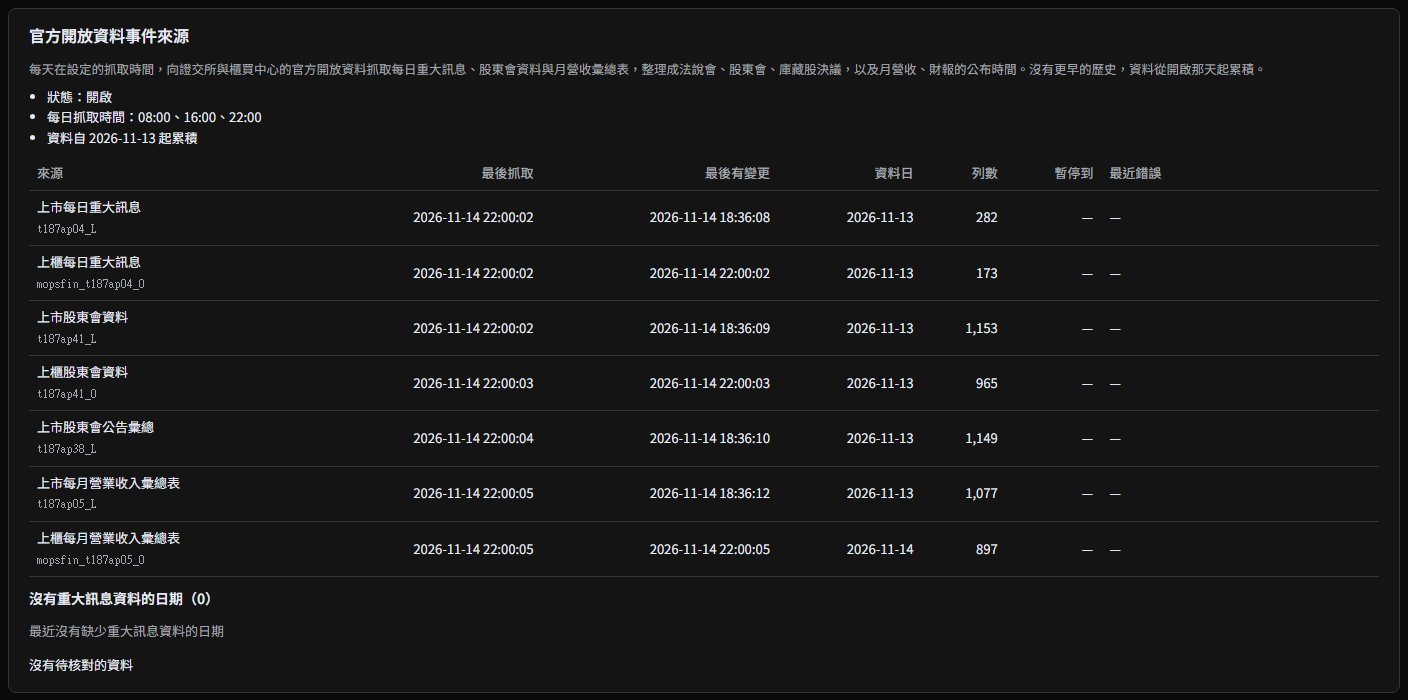
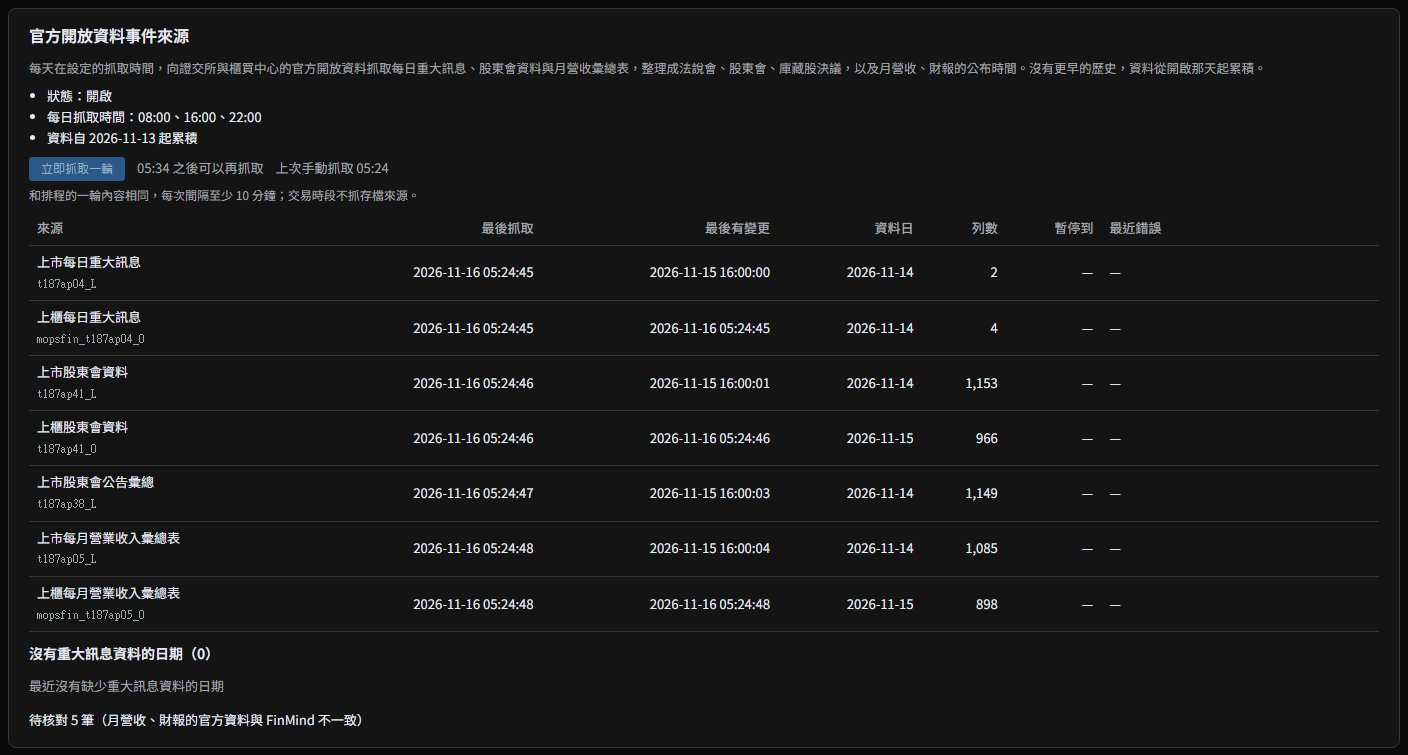
手冊同步：測試連線、立即抓取一輪、自選股欄位群組複選
- 設定：富邦行情、玉山行情的「測試連線」。
- 系統：官方開放資料事件來源的「立即抓取一輪」與新截圖。
- 自選股：表格的欄位群組可以複選（自選股的截圖之後更新）。

diff --git a/docs/settings.md b/docs/settings.md
@@ -38,8 +38,8 @@
 | 即時 | 盤中快照輪詢間隔（股票預設 10 秒、期貨 30 秒）、大單與特大單的判定方式與門檻、族群異動的偵測參數；[警示中心](alerts/README.md)的每分鐘最多提示則數（`Alerts:MaxPerMinute`，預設 10）、預設冷卻分鐘（`Alerts:DefaultCooldownMinutes`，預設 10）與觸發紀錄保存天數（`Alerts:LogKeepDays`，預設 30，1～365 日曆日；每個交易日 15:55 刪除超過天數的紀錄）。 |
 | 預估成交量 | 預估量模型的參數，以及「特殊日清單」：只需維護資料來源沒有提供的指數成分調整日（結算日、長假前後、除權息、處置、新上市會自動判定）。 |
 | 行情來源 | 即時行情要用富邦、玉山或兩者（策略）、兩家同時使用時的待命方式、故障轉移與移回的秒數、每分鐘搬移上限、平衡容忍度，以及指數由哪個來源接收；顯示實際使用的來源、不一致警告、合併容量表與最近的搬移紀錄，見下方 [行情來源](#行情來源)。 |
-| 富邦行情 | 富邦行情的開關、連線狀態、連線數與用量；連線所需的憑證可在此上傳，認證失敗時可「重新嘗試連線」（不會自動重試）。 |
-| 玉山行情 | 玉山行情的開關、方案（與有效方案、方案提醒）、自動降級、認證資料是否已設定（只顯示已設定或未設定與憑證到期日）、連線狀態、容量與用量、各用途的請求保留比例，見下方 [玉山行情方案與自動降級](#玉山行情方案與自動降級)。 |
+| 富邦行情 | 富邦行情的開關、連線狀態、連線數與用量；連線所需的憑證可在此上傳，認證失敗時可「重新嘗試連線」（不會自動重試）；「測試連線」可當場確認設定是否正確，見下方 [富邦行情的測試連線](#富邦行情的測試連線)。 |
+| 玉山行情 | 玉山行情的開關、方案（與有效方案、方案提醒）、自動降級、認證資料是否已設定（只顯示已設定或未設定與憑證到期日）、連線狀態、容量與用量、各用途的請求保留比例，見下方 [玉山行情方案與自動降級](#玉山行情方案與自動降級)；「測試連線」見 [玉山行情的測試連線](#玉山行情的測試連線)。 |
 | 盤中監控 | [盤中監控](live.md)的開關與參數，預設全部關閉。區塊開頭說明三個開關的關係：`Tape:Enabled` 是總開關（開啟時以富邦股票連線的第 2 條起接收焦點股的逐筆成交；關閉時不接收、不另開連線）；`Tape:Focus:WarrantsEnabled` 開啟焦點權證（約當金額、盤中權證力道與涵蓋率，估）；`Tape:Flow:Enabled` 只開啟現股與股期大額的分鐘與每日彙總與焦點以外股票的快照推估（估），不需要焦點權證。總開關關閉時另外兩個開關都不生效。其他項目：焦點股上限（預設 300 檔）與開盤前先接收的檔數、大額與合併門檻、釘選的標的（`Tape:Focus:PinnedStocks`）、熱門標的數（預設 60）、每個標的的焦點權證數（預設 40）與上限（預設 3,000）、活躍權證探測（預設關閉）、事件與彙總的保留天數。 |
 | 期權 | 期權模組總開關、資料保留天數、焦點合約、夜盤即時資料等參數，以及商品對照表的新增、修改、刪除。 |
 | 期現套利（成本與稅率，估） | 現股手續費率與折數、證交稅、期貨手續費、期交稅、融券與借券費用等成本設定（持股風險與可轉債套利也沿用這裡的股票成本）。 |
@@ -162,6 +162,46 @@
 - 「玉山行情方案」（`Esun:Plan`）是單選：「基本用戶（Basic）」「開發者（Developer）」「進階用戶（Advanced）」。區塊上方同時顯示「行情方案」（設定的方案）與「有效方案」（目前實際依據的上限）。
 - 玉山回應的額度明顯低於設定的方案時（例如低用量就被限流），系統判定方案不符。「玉山回應的額度低於設定的方案時，當天自動改用較低方案的額度」（`Esun:Plan:AutoDowngrade`，預設開啟）開啟時，當天改用低一級方案的額度，下一個交易日回到設定的方案再重新判定；區塊上方顯示「今天已自動降級」與「方案提醒：」說明，狀態列的「行情」也會變色並在提示中寫出同一段說明。
 - 關閉自動降級時只顯示提醒，仍依原本的上限。
+
+## 富邦行情的測試連線
+平常只有需要時（日盤有人開啟個股即時頁、期貨行情自動連線、夜盤有人開著期權頁面）才會連上富邦，所以在休息時段（週末、05:00～08:30、13:45～15:00）改完設定無法知道對不對。「富邦行情」區塊的「測試連線」（在「重新嘗試連線」旁邊）會**立刻向富邦認證一次**，成功後再查一筆台積電（2330）的日內報價，當場顯示結果。
+
+**什麼時候用**：上傳新憑證、修改連線資料、或按過「重新嘗試連線」之後，想確認設定是否正確時。
+
+**按下後的確認視窗有三點提醒**：
+1. 會立刻向富邦認證一次，並計入今日連線次數（休息時段的測試算在日盤那一格）。
+2. 認證資料有誤時會被富邦記一次失敗；測試失敗後系統不會自動連線，確認資料後要按「重新嘗試連線」。
+3. 休息時段富邦可能在維護，這時測試失敗不代表資料有誤。
+
+**不能按的時候**：按鈕旁會寫出原因——「先啟用外掛並儲存」（外掛未啟用）、「這個執行個體不執行行情連線」、「測試進行中」、「其他操作進行中」。
+
+**系統會先檢查，不符合就不送出認證**（結果為「未送出」，不計入次數）：距離上一次測試不到 60 秒、外掛未啟用、有尚未清除的認證失敗（先按「重新嘗試連線」）、連線資料不完整、這個時段剩下的連線次數不到 2 次（保留最後一次給自動連線；富邦每個時段最多 3 次）、還在稍後再試的等待時間內。目前已連線時不另外認證，只查詢一筆行情。
+
+**結果怎麼看**：按鈕下方的「最近一次測試連線」——
+
+| 項目 | 說明 |
+|---|---|
+| 測試時間 | 測試結束的時間。 |
+| 結果 | 「成功」「失敗」或「未送出」（沒有送出認證）。 |
+| 認證 | 成功時顯示耗時（毫秒）；失敗或未送出時寫出說明，下一行「原因：」是富邦或系統回報的原因（身分證字號、金鑰等內容已遮蔽）。 |
+| 行情查詢 | 認證後查一筆行情的結果：「成功」「失敗」或「略過」（沒有送出認證，或當下額度暫停）。行情查詢失敗時結果仍算成功，代表認證沒有問題。 |
+| 測試後 | 「保持連線」或「沒有保持連線」。日盤或夜盤時段、行情來源有使用富邦、當天有開盤時，測試成功後保持連線，之後照平常的規則運作，不會再多認證一次；其他時候測試完立刻中斷。 |
+
+結果為認證失敗時，下方會提示「確認連線資料後按『重新嘗試連線』。」——和一般的認證失敗相同，之後不會自動連線，直到按「重新嘗試連線」、換憑證或關閉再開啟外掛。結果是「未送出」但已記為認證失敗（例如上傳的憑證無法開啟、連線資料不完整）時也會出現這個提示。休息時段「富邦連線」的狀態顯示「休息時段」，這時下方會另外列出「認證失敗原因」，「重新嘗試連線」按鈕照樣出現。
+
+**其他提醒**：
+- 行情來源同時使用富邦與玉山時，測試其中一家只會向那一家認證，另一家不會因為這次測試跟著連線。
+- 08:30、15:00 開盤前一兩分鐘測試，測試完會先中斷，開盤後若有需要會再自動連線一次，等於這個時段多用一次連線次數。
+
+等待時按鈕旁顯示「測試進行中，等待結果…」，通常幾秒內就有結果；久等仍沒有結果時改為說明結果出來後會顯示在下方（畫面每 10 秒更新一次狀態）。結果只保存在服務的記憶體，服務重新啟動後就不再顯示。
+
+## 玉山行情的測試連線
+「玉山行情」區塊的「測試連線」（在「重新查詢」「重新嘗試連線」旁邊）和 [富邦行情的測試連線](#富邦行情的測試連線) 的做法、確認視窗的三點提醒、不能按的原因與結果的看法都相同，差別如下：
+
+- 認證照舊由玉山行情閘道執行；按下時先向閘道查一次認證資料狀態（和「重新查詢」相同，不認證），再送出一次認證。
+- 玉山每個時段的連線次數上限是 100 次，同樣在剩下不到 2 次時不測試。
+- 結果「未送出」、說明「閘道沒有把認證送到券商，不計入連線次數」：閘道的安全檢查擋下了這次認證（例如認證資料缺少某一項），原因寫在下一行，處理後再測試。
+- 玉山外掛未啟用時不連閘道，也不能測試。
 
 ## AI 助手
 ![AI 助手區塊](images/general/settings-assistant.jpg)

diff --git a/docs/watchlist.md b/docs/watchlist.md
@@ -5,7 +5,7 @@
 > 資料更新：盤中報價即時更新、走勢小圖每分鐘更新；盤後欄位群組取自每晚計算的選股特徵
 
 ## 這個功能可以做什麼
-把關心的股票分成多個群組管理。表格列出每檔的報價、當日走勢小圖、預估量與昨量比，也能切換到主力籌碼、三大法人、融資券等盤後欄位群組。自選股存在後端資料庫，重新整理或換瀏覽器都還在；左側自選欄讓你在任何頁面一鍵切換股票。
+把關心的股票分成多個群組管理。表格列出每檔的報價、當日走勢小圖、預估量與昨量比，也能同時勾選主力籌碼、三大法人、融資券等盤後欄位群組，在同一張表一起看。自選股存在後端資料庫，重新整理或換瀏覽器都還在；左側自選欄讓你在任何頁面一鍵切換股票。
 
 > 截圖中的群組名稱與股票代號、名稱已模糊處理。
 
@@ -21,7 +21,7 @@
 | 3 | 搜尋加入 | 輸入代號或名稱，選擇後加入目前群組；加入後游標留在搜尋框，可連續加入。 |
 | 4 | 批次加入 | 貼上多個代號（以空白、逗號或換行分隔，例如 `2330, 2317, 00632R`），先預覽會加入幾檔、哪些格式不正確，再按「加入」。結果會列出找不到與已在群組中的代號。 |
 | 5 | 表格／卡片 | 切換「表格」或「卡片」檢視。 |
-| 6 | 欄位群組 | 「報價」「主力籌碼」「三大法人」「當沖」「融資券」「主動 ETF」「指數權重」「鉅額與借券」「信用延伸」「可轉債」「技術延伸」「籌碼延伸」「事件」。 |
+| 6 | 欄位群組 | 「報價」「主力籌碼」「三大法人」「當沖」「融資券」「主動 ETF」「指數權重」「鉅額與借券」「信用延伸」「可轉債」「技術延伸」「籌碼延伸」「事件」，可以複選（預設只有「報價」），見下方「欄位群組（可複選）」。 |
 | 7 | 走勢小圖 | 當日分鐘走勢；虛線為平盤（參考價），最新價在平盤上為漲色、平盤下為跌色、平盤為灰。灰底為盤中重新啟動後還沒補回的時段，補回後自動變完整。 |
 | 8 | 預估量（張） | 盤中依目前累計量估算的全日成交量，標「估」；只在盤中有即時報價時顯示。 |
 | 9 | 匯入、匯出 CSV | 「匯出 CSV」依自選順序下載目前群組；「匯入」可選 CSV 檔，或直接貼上 CSV 內容或代號清單。 |
@@ -30,15 +30,21 @@
 ### 報價欄位
 「代號」「名稱」「走勢」「收盤」「漲跌」「漲跌幅」「成交量（張）」「預估量（張）」「昨量比」「產業」「資料日」，以及每列的操作（上移、下移、移到其他群組、從群組移除）。點列進個股頁。
 
-### 盤後欄位群組
-![盤後欄位群組](images/general/watchlist-chip-columns.jpg)
+### 欄位群組（可複選）
+![欄位群組](images/general/watchlist-chip-columns.jpg)
 
 | 編號 | 名稱 | 說明 |
 |---|---|---|
-| 1 | 欄位群組 | 切到「報價」以外的群組時，表格改列該群組的盤後欄位，表格上方標示「籌碼資料日」。 |
-| 2 | 主力籌碼欄位 | 「主力籌碼」群組可多選要顯示的欄位：「主力動向」「主力買賣超（張）」「籌碼集中度（%）」各有 1 日、3 日、5 日、10 日、20 日、60 日，共十八個選項，選單依這三項分組；每選一個就多一欄（依選項順序排列）；預設為三個 5 日欄位。後面固定接券商買賣家數差與主力連買、連賣天數。選擇記在這個瀏覽器；以前存過「主力天數」時，第一次開啟會換成該天數的三個欄位。 |
+| 1 | 欄位群組 | 點一下勾選、再點一下取消，可以同時選多組。選了的群組都顯示在同一張表：「代號」「名稱」固定在最左邊，後面依按鈕的順序（不是點選的先後）接「報價」與各盤後群組的欄位；表頭上方多一列群組名稱，群組之間有分隔線。至少要保留一組，只剩一組時再點它不會取消（滑鼠移上去會提示「至少保留一組欄位」）。選了盤後群組時，表格上方標示「籌碼資料日」。選擇記在這個瀏覽器；以前只選過一組時，第一次開啟會沿用那一組。 |
+| 2 | 主力籌碼欄位 | 勾了「主力籌碼」才出現。可多選要顯示的欄位：「主力動向」「主力買賣超（張）」「籌碼集中度（%）」各有 1 日、3 日、5 日、10 日、20 日、60 日，共十八個選項，選單依這三項分組；每選一個就多一欄（依選項順序排列）。預設直接顯示三項各 1 日、3 日、5 日、10 日、20 日共十五欄，60 日或其他組合可在選單自行增減。後面固定接券商買賣家數差與主力連買、連賣天數。選擇記在這個瀏覽器；以前存過「主力天數」時，第一次開啟會換成該天數的三個欄位（存的是 5 日或從沒改過時改用新的十五欄預設）。 |
+| 3 | 群組名稱 | 選了盤後群組時，表頭上方的一列標出每一段欄位屬於哪一組（截圖為「主力籌碼」加「三大法人」，沒選報價）。 |
 
-還沒有選股特徵（每晚計算）時，籌碼欄位暫無資料。卡片檢視的主力動向仍以「主力天數」切換天數。
+- 沒選「報價」時，表格只有代號、名稱與盤後欄位，不顯示走勢小圖與即時報價；每列的上移、下移、移到其他群組、移除仍在最右邊。
+- 每一欄都可以點欄名排序；換了群組後，原本依某欄排序而那一欄已不在表上時，回到自選順序。
+- 盤後欄位第一次載入時，表格上方顯示「盤後欄位載入中…」；載入失敗時顯示說明與「重試」。
+- 欄位多時表格可以左右捲動，代號與名稱固定不動；手機上群組按鈕會換行，表格同樣左右捲動（拖曳把手不固定，名稱過長時以省略號顯示），整頁不會左右晃動。
+
+還沒有選股特徵（每晚計算）時，籌碼欄位暫無資料。卡片檢視不受欄位群組影響，主力動向仍以「主力天數」切換天數。
 
 ## 左側自選欄
 ![左側自選欄的標題列](images/general/watchlist-sidebar-head.jpg)

diff --git a/docs/system.md b/docs/system.md
@@ -55,6 +55,15 @@
 - 「沒有重大訊息資料的日期」：開啟後（最多看 30 天）到昨天之間，完全沒有重大訊息資料的日期。來源主機沒開或那一天沒有抓到時會缺，之後無法補抓。
 - 待核對筆數：月營收、財報的官方資料與 FinMind 不一致的筆數（統計仍以 FinMind 為準）；沒有時寫「沒有待核對的資料」。
 
+**立即抓取一輪**：不想等到下一個抓取時間（例如剛開啟外掛、或想看今天稍早公布的重大訊息）時，按「立即抓取一輪」在背景跑一輪，內容和排程的一輪完全相同（同樣的來源、同樣的請求間隔與限流暫停），不會影響之後排程的各輪。
+
+- 按下後顯示「已開始抓取，約 1～2 分鐘後完成」，期間按鈕旁寫「抓取中」，這個區塊每 5 秒更新一次，抓完改寫「這一輪已結束，下方為最新狀態」並回到原本的更新頻率（最多 5 分鐘）。旁邊寫出「上次手動抓取 HH:mm」。
+- 每次間隔至少 10 分鐘（只看上一次手動抓取，排程剛跑完也可以按），間隔內按鈕停用並寫「HH:mm 之後可以再抓取」，時間到了按鈕自己恢復。
+- 每按一次最多只跑一輪。按下後 5 分鐘內沒有開始（例如服務剛好重新啟動）就不再跑，需要時再按一次。
+- 每天 22:05～22:30 不能按（夜間工作時段），按鈕旁寫「22:30 之後可以再抓取」；外掛關閉時按鈕停用並寫「先到設定開啟官方開放資料事件來源」。
+- 交易日 08:20～13:46 按下時，只抓 7 個主要來源，不抓原始檔存檔的來源；有變更股票的事件樣本也和排程的一輪一樣，延到盤後的一輪再重建。
+- 沒有開始時（例如另一輪剛好在抓取中），在按鈕下方寫出原因。
+
 資料集狀態矩陣另有 `MopsCorporateEvents`（法說會、股東會、庫藏股決議）與 `MopsDisclosureTimes`（月營收、財報公布時間）兩列。
 
 ## 版本與更新紀錄

diff --git a/docs/mobile.md b/docs/mobile.md
@@ -45,7 +45,7 @@
 ### 自選
 ![手機版自選股](images/general/mobile-watchlist.jpg)
 
-手機不顯示左側自選欄，請用底部「自選」開啟自選股頁。（截圖中的自選群組與股票是示範資料。）
+手機不顯示左側自選欄，請用底部「自選」開啟自選股頁。表格的欄位群組可以複選，按鈕會換行；欄位多時表格左右滑動，代號與名稱固定在左邊，整頁不會左右晃動。（截圖中的自選群組與股票是示範資料。）
 
 ## 手機上的操作差異
 - **提示文字**：電腦上滑鼠移上去才出現的說明（例如狀態列的行情燈號、停用分頁的原因、「估」的估算方式、被截斷的名稱），手機上改為點一下顯示，再點一下、點其他地方、捲動或 4 秒後收起。
